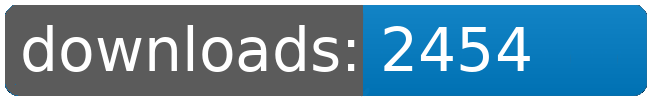
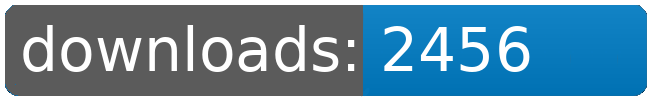
dl log written

Changed region(s): [[0.7692, 0.24, 0.8308, 0.72]]

diff --git a/README.md b/README.md
@@ -98,8 +98,8 @@
 		<td>2388</td>
 		<td>2418</td>
 		<td>2448</td>
-		<td>2454</td>
-		<td>+ 6</td>
+		<td>2456</td>
+		<td>+ 8</td>
 	</tr>
 	<tr>
 		<td></td>
@@ -109,8 +109,8 @@
 		<td></td>
 		<td></td>
 		<td></td>
-		<td>21972</td>
-		<td>34</td>
+		<td>21974</td>
+		<td>36</td>
 	</tr>
 </table>
 </sub></sup>
@@ -212,8 +212,8 @@
 		<td>2388</td>
 		<td>2418</td>
 		<td>2448</td>
-		<td>2454</td>
-		<td>+ 6</td>
+		<td>2456</td>
+		<td>+ 8</td>
 	</tr>
 	<tr>
 		<td></td>
@@ -223,8 +223,8 @@
 		<td></td>
 		<td></td>
 		<td></td>
-		<td>21972</td>
-		<td>34</td>
+		<td>21974</td>
+		<td>36</td>
 	</tr>
 </table>
 </sub></sup>
